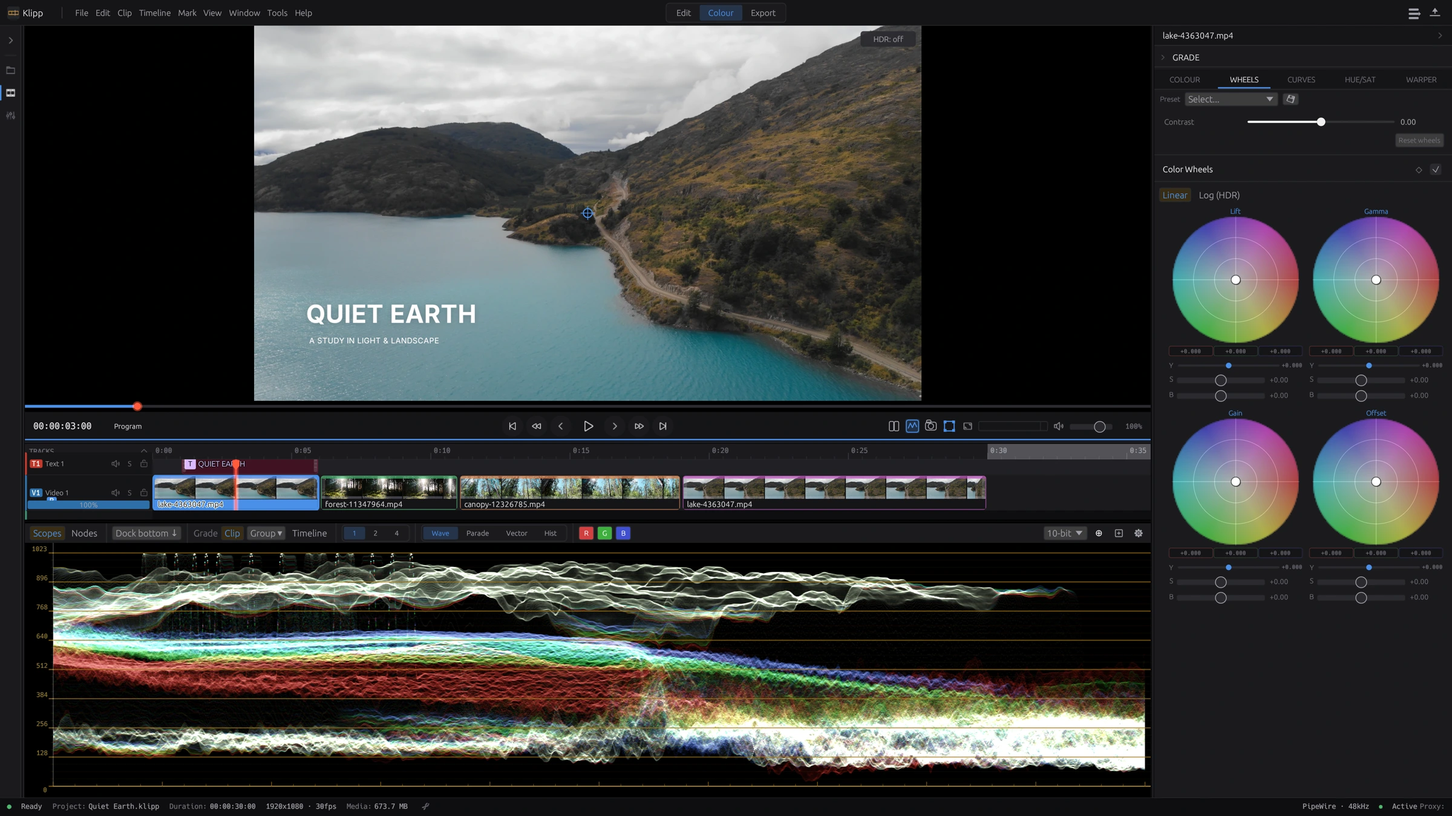
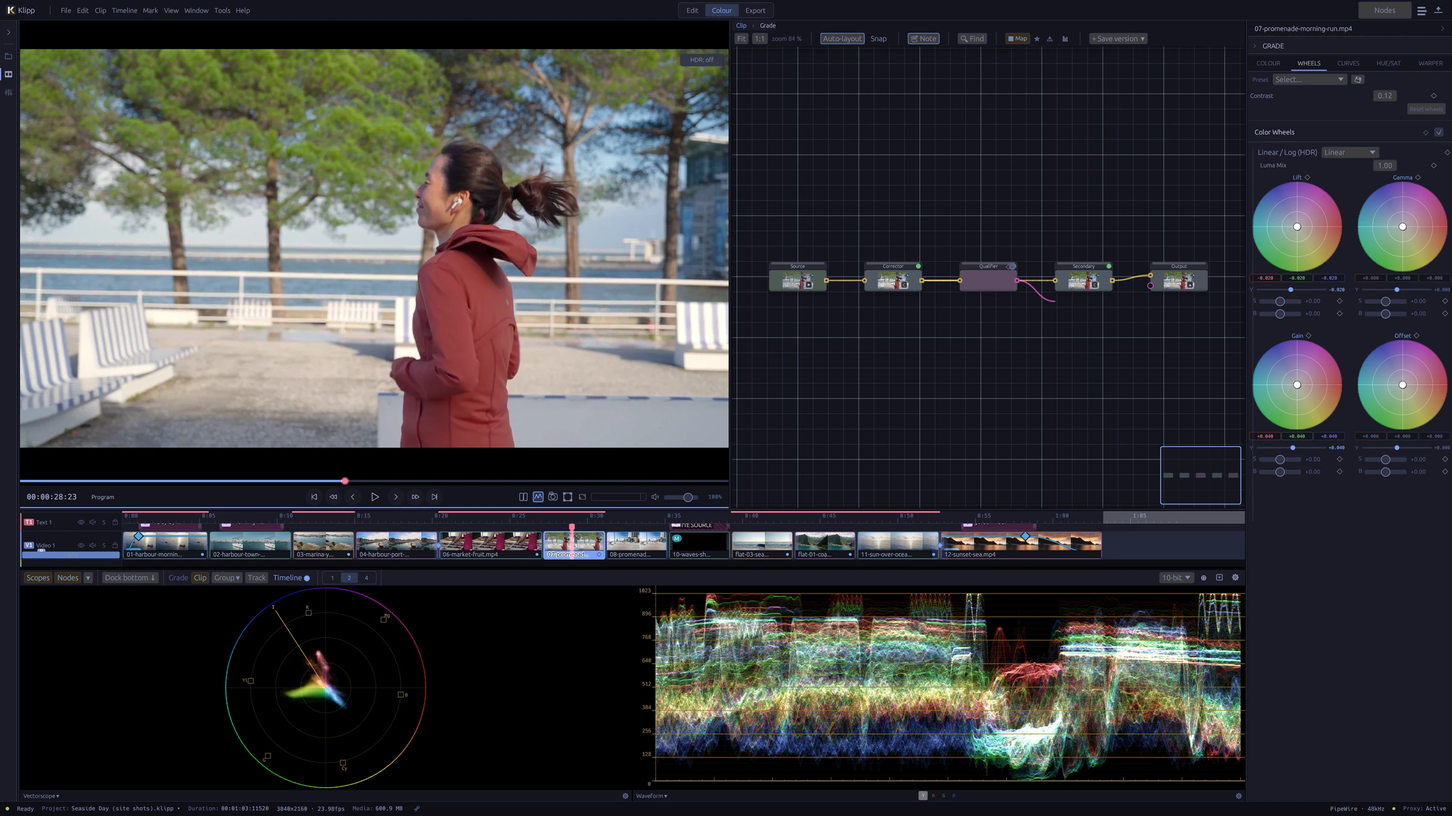
Show the current app and every feature on the homepage
The two homepage screenshots showed an old build with the old logo and a different project from the film. Replace them with captures of the current app on the Seaside Day project, add transcript, titles and sound sections with their own captures, and list every feature by area in collapsed groups. Each listed feature was checked against the code; the colour intro no longer says the pipeline is always ACEScg.

diff --git a/website/index.html b/website/index.html
@@ -13,14 +13,14 @@
 <a class="skip" href="#main">Skip to content</a>
 <header class="header wrap">
   <a class="brand" href="#" aria-label="Klipp home"><img src="assets/klipp-icon.svg" width="36" height="36" alt=""><img src="assets/klipp-wordmark.svg" height="26" alt="Klipp"></a>
-  <nav aria-label="Main navigation"><a href="#workflow">Explore</a><a href="#demo">Demo</a><a href="#start">Get started <span aria-hidden="true">↗</span></a></nav>
+  <nav aria-label="Main navigation"><a href="#workflow">Explore</a><a href="#demo">Demo</a><a href="#features">Features</a><a href="#start">Get started <span aria-hidden="true">↗</span></a></nav>
 </header>
 <main id="main">
   <section class="hero wrap">
     <p class="eyebrow"><span class="status-dot"></span> Built for Linux. In active development.</p>
     <h1>Find your cut.<br><span>Make it yours.</span></h1>
     <div class="hero-bottom"><p>A native video editor with a magnetic timeline, scene-linear colour, and local AI tools. From the first assembly to the final frame.</p><a class="button" href="#start">Start with Klipp <span aria-hidden="true">↗</span></a></div>
-    <figure class="hero-shot"><a href="assets/editing.webp" aria-label="Open the editing workspace screenshot at full size"><img src="assets/editing.webp" width="2400" height="1350" fetchpriority="high" alt="Klipp editing workspace: a mountain lake in the viewer, layered titles, four video shots and a music waveform on the timeline."></a><figcaption><span>QUIET EARTH / Editing workspace</span><span>Actual app capture · Open full size ↗</span></figcaption></figure>
+    <figure class="hero-shot"><a href="assets/edit.webp" aria-label="Open the Edit page screenshot at full size"><img src="assets/edit.webp" width="2400" height="1350" fetchpriority="high" alt="Klipp Edit page: a harbour shot with a lower-third title in the viewer, the media pool, the inspector, and a timeline with title, video, music, ambience, sound effect and voice tracks."></a><figcaption><span>SEASIDE DAY / Edit page</span><span>Actual app capture · Open full size ↗</span></figcaption></figure>
     <div class="specs"><span>Native Linux</span><span>Vulkan accelerated</span><span>Scene-linear colour</span><span>GPL-3.0-only</span></div>
   </section>
   <section id="workflow" class="section wrap">
@@ -29,14 +29,191 @@
   </section>
   <section class="colour section">
     <div class="wrap"><div class="section-heading"><p class="eyebrow">02 / The finish</p><h2>A feel for the image.<br>A measure of the colour.</h2></div>
-    <p class="section-intro">Work in a scene-linear ACEScg pipeline with camera-log decoding, node-based grades, colour wheels, curves, and GPU scopes. Finish for SDR or HDR.</p>
-    <figure class="feature-shot"><a href="assets/colour.webp" aria-label="Open the colour workspace screenshot at full size"><img src="assets/colour.webp" width="2400" height="1350" loading="lazy" alt="Klipp colour workspace with four colour wheels arranged in a two-by-two grid, a waveform scope, and the Quiet Earth timeline."></a><figcaption>Colour workspace / Wheels and waveform · Open full size ↗</figcaption></figure></div>
+    <p class="section-intro">Work in a scene-linear pipeline (ACEScg, BT.2020 or Rec.709 linear) with camera-log decoding, node-based grades, colour wheels, curves, and GPU scopes. Finish for SDR or HDR.</p>
+    <figure class="feature-shot"><a href="assets/colour.webp" aria-label="Open the Colour page screenshot at full size"><img src="assets/colour.webp" width="2400" height="1350" loading="lazy" alt="Klipp Colour page: a graded shot of a runner on a seafront, the clip's node graph with five nodes, four colour wheels, a vectorscope and a waveform."></a><figcaption>Colour page / Node graph, wheels and scopes · Open full size ↗</figcaption></figure></div>
   </section>
-  <section class="section wrap assistant"><div><p class="eyebrow">03 / A helping hand</p><h2>Your edit.<br>More ways to get there.</h2></div><div><p class="lead">Transcribe, analyse, and automate.</p><p>Klipp’s built-in speech, vision, and audio models run locally. Connect an MCP-compatible assistant to inspect footage, propose an edit plan, build a sequence, and check the result.</p><p class="muted">An external assistant may use a local or cloud model, depending on your client. Local inference and external assistants are separate choices.</p><a class="text-link" href="https://github.com/davidkodar/klipp/blob/main/docs/project-reference.md#the-ai-assistant">Read about the workflow ↗</a></div></section>
+  <section class="section wrap assistant"><div><p class="eyebrow">03 / A helping hand</p><h2>Your edit.<br>More ways to get there.</h2></div><div><p class="lead">Transcribe, analyse, and automate.</p><p>Klipp’s built-in speech, vision, and audio models run locally. Connect an MCP-compatible assistant to inspect footage, propose an edit plan, build a sequence, and check the result.</p><p class="muted">An external assistant may use a local or cloud model, depending on your client. Local inference and external assistants are separate choices.</p><a class="text-link" href="https://github.com/davidkodar/klipp/blob/main/docs/project-reference.md#the-ai-assistant">Read about the workflow ↗</a></div><figure class="feature-shot wide"><a href="assets/transcript.webp" aria-label="Open the transcript screenshot at full size"><img src="assets/transcript.webp" width="2400" height="1350" loading="lazy" alt="Klipp Edit page with the Transcript panel open under an interview clip: the spoken words, with the filler words um and uh marked."></a><figcaption>Edit by transcript / Filler words marked · Open full size ↗</figcaption></figure></section>
+  <section class="section wrap">
+    <div class="section-heading"><p class="eyebrow">04 / Titles</p><h2>Words that move.</h2></div>
+    <p class="section-intro">Start from 38 animated title templates, or build your own: complex scripts, variable fonts, 3D text, text on a path, and footage inside the letters with a track matte.</p>
+    <figure class="feature-shot"><a href="assets/titles.webp" aria-label="Open the titles screenshot at full size"><img src="assets/titles.webp" width="2400" height="1350" loading="lazy" alt="Klipp with the title library open beside the viewer, which shows the word SEA with breaking waves inside the letters."></a><figcaption>Title library / Footage inside the letters · Open full size ↗</figcaption></figure>
+  </section>
+  <section class="colour section">
+    <div class="wrap"><div class="section-heading"><p class="eyebrow">05 / Sound</p><h2>Hear it in the edit.</h2></div>
+    <p class="section-intro">Mix on a full mixer with loudness and true-peak meters. Clean up a voice with Voice Isolation on your own machine, duck the music under it, and deliver at your platform’s loudness.</p>
+    <figure class="feature-shot"><a href="assets/sound.webp" aria-label="Open the sound screenshot at full size"><img src="assets/sound.webp" width="2400" height="1350" loading="lazy" alt="Klipp audio layout during playback: the mixer with moving meters, the master loudness at minus 14 LUFS, and Voice Isolation on the selected voice clip."></a><figcaption>Audio mixer / Voice Isolation and loudness · Open full size ↗</figcaption></figure></div>
+  </section>
   <section id="demo" class="section wrap demo"><div class="section-heading"><p class="eyebrow">Made in Klipp</p><h2>Twenty things Klipp does.</h2></div><p class="section-intro">A three-minute tour of the real interface: editing, titles, colour, sound and delivery. Cut, graded, mixed, narrated and exported in Klipp. Play with sound for the narration.</p>
     <video controls playsinline preload="none" poster="assets/klipp-showcase-v3-1080p.webp" width="1920" height="1080" aria-label="Klipp showcase: a three-minute narrated tour of twenty features, with music"><source src="assets/klipp-showcase-v3-1080p.mp4" type="video/mp4">Your browser cannot play this video. <a href="assets/klipp-showcase-v3-1080p.mp4">Download the Klipp showcase</a>.</video>
     <p class="caption">Narrated in English, with music. Shown in Klipp 0.1.0-rc.2. <a href="credits.html">Footage, music and sound credits</a>.</p>
   </section>
+  <section id="features" class="section wrap all-features" aria-labelledby="all-features-title">
+  <div class="section-heading"><p class="eyebrow">In full</p><h2 id="all-features-title">All features.</h2></div><p class="section-intro">What Klipp 0.1.0-rc.2 does, by area. Open a group to see the list.</p>
+
+  <details><summary>Editing <span class="count">18</span></summary><ul>
+    <li>Magnetic multitrack timeline, with ripple on or off</li>
+    <li>Insert, overwrite, replace and fit-to-fill edits from in and out marks</li>
+    <li>Ripple, roll, slip and slide trims</li>
+    <li>Blade, split at the playhead, lift, extract and ripple delete</li>
+    <li>J and L cuts: trim the picture or the sound alone</li>
+    <li>Compound clips and storylines of connected clips</li>
+    <li>Several sequences per project, duplicated in one step</li>
+    <li>A selects timeline for pulling takes</li>
+    <li>Synced multicam by timecode, sound or both, cut with keys 1–9</li>
+    <li>Speed changes, reverse, freeze frames and speed ramps</li>
+    <li>Optical-flow slow motion</li>
+    <li>Keyframes with a curve editor, a dope sheet and a motion path in the viewer</li>
+    <li>Edit by transcript: delete words, filler words or long pauses</li>
+    <li>Markers with notes, colours and kinds, including chapters</li>
+    <li>A history window: click any step to go back</li>
+    <li>Skimming, a source viewer and match frame</li>
+    <li>New version at another aspect: vertical or square, reframed on the subject</li>
+    <li>Scene detection that splits a clip at its shot changes</li>
+  </ul></details>
+
+  <details><summary>Media and organising <span class="count">12</span></summary><ul>
+    <li>Import files or whole folders, or drag them in</li>
+    <li>Bins and rule-based smart bins</li>
+    <li>Ratings, favourites, rejects and keywords</li>
+    <li>Logging fields, list columns, sorting and filters</li>
+    <li>Camera metadata from EXIF and Sony and Canon XML sidecars</li>
+    <li>Metadata sheets in and out as CSV or ALE</li>
+    <li>Proxies, and playback from proxies</li>
+    <li>Relink media from a whole folder; offline files counted on open</li>
+    <li>Find by Picture: describe a shot in words to find it (optional, runs locally)</li>
+    <li>Video synced with separately recorded sound in the media pool</li>
+    <li>Clips split across camera files joined as one take</li>
+    <li>Stills including HEIC, AVIF, JPEG XL, EXR and camera RAW previews</li>
+  </ul></details>
+
+  <details><summary>Colour <span class="count">18</span></summary><ul>
+    <li>Scene-linear grading in ACEScg, BT.2020 or Rec.709 linear</li>
+    <li>15 camera log curves, detected on import</li>
+    <li>A node graph per clip, with a picture on every node</li>
+    <li>Colour wheels, contrast, exposure, saturation and tone controls</li>
+    <li>RGB curves and seven hue, saturation and luminance curves</li>
+    <li>HSL, RGB and 3D qualifiers, luma and difference keys</li>
+    <li>Colour warper</li>
+    <li>Circle, rectangle, gradient and Bezier masks, with tracked windows</li>
+    <li>HDR zones for grading HDR</li>
+    <li>3D LUTs (.cube, .3dl, .csp) and 304 bundled film and cinematic LUTs</li>
+    <li>ACES output transforms and a colour space transform effect</li>
+    <li>Viewer and calibration LUTs that change only the screen</li>
+    <li>GPU waveform, parade, vectorscope and histogram; CIE chromaticity and false colour</li>
+    <li>Colour Check: names what is off in the frame, and the control that fixes it</li>
+    <li>Match shots to a hero shot, or adopt a look from a reference</li>
+    <li>Auto white balance, an eyedropper, and skin balance from detected faces</li>
+    <li>A grade library shared across projects, with stills, wipe and before/after</li>
+    <li>Timeline and track grades, grade versions, and grades pasted onto many clips</li>
+  </ul></details>
+
+  <details><summary>Effects and transitions <span class="count">14</span></summary><ul>
+    <li>73 transitions, each with a live preview</li>
+    <li>Piece transitions: strips, panels, halves and shatter</li>
+    <li>Smooth Cut, for jump cuts between takes</li>
+    <li>60 built-in GPU video effects and six one-click looks</li>
+    <li>Chroma key and luma key</li>
+    <li>Stabilisation, rolling-shutter correction, temporal noise reduction and deflicker</li>
+    <li>Particles, lens flare, light rays, glow, halation, VHS and old film</li>
+    <li>Track mattes, and masks on any effect</li>
+    <li>13 blend modes</li>
+    <li>Remove Background, Isolate Object and Detect Objects (optional, run locally)</li>
+    <li>Subject tracking, and surface tracking with corner pin</li>
+    <li>Motion blur per sequence, with shutter and samples</li>
+    <li>Effect presets and favourites; most effect settings can be keyframed</li>
+    <li>OFX 1.5 and frei0r video plug-ins: subsets of each format; compatibility varies by plugin</li>
+  </ul></details>
+
+  <details><summary>Titles and graphics <span class="count">15</span></summary><ul>
+    <li>38 title templates in six categories, and templates of your own</li>
+    <li>OpenType shaping for complex scripts and right-to-left text</li>
+    <li>Vertical text and ruby</li>
+    <li>Variable fonts and font fallback</li>
+    <li>OpenType features: ligatures, small caps, figure styles, stylistic sets</li>
+    <li>Styled runs, with copy and paste of a style</li>
+    <li>Gradients, outlines, shadows, glow and neon</li>
+    <li>Backings for lower thirds: a box, or shadow and outline</li>
+    <li>Paragraphs, lists, tab stops and fit to a box</li>
+    <li>Text on a path</li>
+    <li>Animators by letter, word or line; staggered entrances and exits</li>
+    <li>Extruded 3D text with bevels and lighting</li>
+    <li>Rolling credits and crawls</li>
+    <li>Type in the viewer with the Text tool; image layers in titles</li>
+    <li>Find and replace across titles, and missing-font replacement</li>
+  </ul></details>
+
+  <details><summary>Captions and transcripts <span class="count">9</span></summary><ul>
+    <li>Speech transcription on your machine (optional; model downloads on request)</li>
+    <li>A transcript panel to set the language and correct words</li>
+    <li>Captions made from the transcript in one step</li>
+    <li>SRT, VTT, ASS/SSA, TTML (IMSC), SCC and EBU-STL, in and out</li>
+    <li>A subtitle editor, with a caption style per track</li>
+    <li>Caption tracks with a language and visibility</li>
+    <li>Caption translation on your machine, 14 language pairs (optional)</li>
+    <li>Burnt-in or soft subtitles on export</li>
+    <li>CEA-608 closed captions embedded in H.264 and H.265</li>
+  </ul></details>
+
+  <details><summary>Sound <span class="count">16</span></summary><ul>
+    <li>Multitrack mixer with loudness (LUFS) and true-peak meters</li>
+    <li>Clip volume, gain, pan and channel mapping</li>
+    <li>Audio crossfades</li>
+    <li>15 built-in audio effects: EQ, dynamics, restoration, reverb, delay, chorus, pitch</li>
+    <li>Noise reduction, de-click, de-ess and hum removal</li>
+    <li>Voice Isolation, on your machine (optional; model downloads on request)</li>
+    <li>Normalise to a loudness or a peak, with a true-peak ceiling</li>
+    <li>Track volume and pan automation, recorded live</li>
+    <li>Volume keyframes and auto duck</li>
+    <li>Sync separate sound by waveform or timecode</li>
+    <li>Fit music to a length, in whole bars</li>
+    <li>Audio roles, proposed by an on-device classifier</li>
+    <li>Sound Over Time: a whole file as frequency against time</li>
+    <li>Narration voices on your machine (optional; voices download on request)</li>
+    <li>Voice-over recording with punch-in, and audio scrubbing</li>
+    <li>LADSPA, LV2 and CLAP audio plug-ins: subsets of each format; compatibility varies by plugin</li>
+  </ul></details>
+
+  <details><summary>Delivery and interchange <span class="count">15</span></summary><ul>
+    <li>Export presets for the web, social, masters and broadcast; save your own</li>
+    <li>H.264, H.265, AV1, VP9, ProRes, DNxHD and animated GIF</li>
+    <li>MP4, MKV, MOV and WebM, in 8-bit or 10-bit</li>
+    <li>HDR export in HLG or PQ, with HDR10+ metadata</li>
+    <li>Output transforms for Rec.709, Rec.2020, PQ, DCI-P3 and sRGB</li>
+    <li>Hardware encoding (NVENC, AMF, VAAPI), with software fallback</li>
+    <li>A render queue, and one file per marker range</li>
+    <li>Loudness targets on export</li>
+    <li>Audio-only export as MP3, WAV or M4A</li>
+    <li>Chapters from markers, written into MP4, MKV and MOV</li>
+    <li>A delivery check of picture and sound, and advice when 8-bit will band</li>
+    <li>Review copies with burnt-in timecode; comments come back as markers</li>
+    <li>Edit exchange: OTIO, FCPXML, CMX3600 EDL, AAF and Kdenlive in and out; FCP7 XML and MLT in</li>
+    <li>The edit comes across (clips, cuts, timing, markers where the format has them), with an import report</li>
+    <li>Autosave, backups and recovery after a crash</li>
+  </ul></details>
+
+  <details><summary>Performance and platform <span class="count">9</span></summary><ul>
+    <li>A native Linux app, for Wayland and X11</li>
+    <li>A Vulkan-capable GPU is required</li>
+    <li>Compositing, grading and scopes on the GPU</li>
+    <li>Hardware video decoding (NVDEC, VAAPI)</li>
+    <li>Follows the Omarchy desktop theme; eight built-in themes, accent colour and UI scale</li>
+    <li>Every AI feature optional, each with its own switch</li>
+    <li>Models download on request and are checked by SHA-256</li>
+    <li>No account; update checks are off until you turn them on</li>
+    <li>A separate HDR reference output window</li>
+  </ul></details>
+
+  <details><summary>Assistant and automation <span class="count">8</span></summary><ul>
+    <li>An MCP server with 129 tools (optional; can be switched off)</li>
+    <li>Your MCP client decides whether its model is local or in the cloud</li>
+    <li>65 edit operations, each one undo step</li>
+    <li>Footage analysis: shots, sound, motion, speech, framing, beats and on-screen text</li>
+    <li>An Edit Plan window to approve, build or discard a proposed edit</li>
+    <li>Draft review with a contact sheet and a quality check</li>
+    <li>Screen recording, narration and sound effects placed on cuts</li>
+    <li>Hide emails, keys and passwords found on screen in a recording</li>
+  </ul></details>
+</section>
   <section id="start" class="section start"><div class="wrap start-grid"><div><p class="eyebrow">Start here</p><h2>A work in progress.<br>Ready to explore.</h2><p>Klipp is pre-release software. Expect rough edges and breaking changes. The latest release candidate, <a href="https://github.com/davidkodar/klipp/releases/tag/v0.1.0-rc.2">0.1.0-rc.2</a>, is out as an unsigned Arch package. There are no stability guarantees yet.</p></div><div class="install"><h3>Build on Arch / Omarchy</h3><p>x86_64 Linux · Vulkan 1.1 GPU required</p><pre><code>git clone https://github.com/davidkodar/klipp.git
 cd klipp/packaging
 makepkg -si

diff --git a/website/credits.html b/website/credits.html
@@ -30,8 +30,8 @@
 </ul>
 <p>Footage from <a href="https://coverr.co/license">Coverr</a> and <a href="https://mixkit.co/license/#videoFree">Mixkit</a>, used under their free licences. Clips were excerpted, graded and combined with titles, music and narration. No creator endorsement is implied.</p>
 <h2>Screenshots</h2>
-<p>The workspace screenshots on the homepage show the Quiet Earth demonstration project: <a href="https://www.pexels.com/video/drone-shot-of-a-beautiful-mountains-by-the-lake-4363047/">Mountain lake aerial</a> by Ton Souza, <a href="https://www.pexels.com/video/sunlight-in-forest-11347964/">Sunlight in Forest</a> by dabatepatvideos and <a href="https://www.pexels.com/video/sunlight-over-forest-12326785/">Sunlight over Forest</a> by Dmitry Marchenkov, under the <a href="https://www.pexels.com/legal-pages/license/">Pexels License</a>, with <a href="https://www.scottbuckley.com.au/library/reverie/">“Reverie” by Scott Buckley</a> (<a href="https://creativecommons.org/licenses/by/4.0/">CC BY 4.0</a>) on its timeline.</p>
+<p>The screenshots on the homepage show the Seaside Day demonstration project in Klipp 0.1.0-rc.2, built from the footage listed above. Also on its timeline and in its media pool: <a href="https://www.jamendo.com/track/785434">“Quand je serai grand (Instrumental Version)” by Löhstana David</a> (<a href="https://creativecommons.org/licenses/by/3.0/">CC BY 3.0</a>), and the sounds <a href="https://freesound.org/people/nicola_ariutti/sounds/813228/">“Stromboli beach” by nicola_ariutti</a> and <a href="https://freesound.org/people/blaukreuz/sounds/520242/">“Ouistreham Beach promenade 5.1” by blaukreuz</a> on Freesound (<a href="https://creativecommons.org/publicdomain/zero/1.0/">CC0</a>). The voice lines are Klipp’s built-in narration.</p>
 <h2>Application and artwork</h2>
 <p>Klipp is licensed under <a href="https://github.com/davidkodar/klipp/blob/main/LICENSE">GPL-3.0-only</a>. The footage, music and sound retain the separate licences linked above. They are not relicensed under the application’s GPL licence.</p>
-<p class="muted">Film: Klipp 0.1.0-rc.2. Screenshots: Klipp 0.1.0, build 90014152. The interface is under active development and may change.</p>
+<p class="muted">Film and screenshots: Klipp 0.1.0-rc.2. The interface is under active development and may change.</p>
 </main></body></html>

diff --git a/website/style.css b/website/style.css
@@ -2,3 +2,10 @@
 @media(max-width:850px){.wrap{width:calc(100% - 40px)}.hero{padding-top:45px}.hero-bottom{align-items:flex-start;flex-direction:column;gap:24px}.hero-bottom p{font-size:18px}.section{padding-block:65px}.editorial-grid{grid-template-columns:1fr;gap:28px}.assistant,.start-grid{grid-template-columns:1fr;gap:25px}.install{padding:25px 0 0;border-left:0;border-top:1px solid #bfc2ba}.specs{display:grid;grid-template-columns:1fr 1fr}.footer{flex-wrap:wrap}.footer p{flex-basis:100%;order:2}.feature-shot figcaption{font-size:10px}}
 @media(max-width:480px){body{font-size:16px}.header{padding-block:18px}.brand{font-size:22px}nav{gap:16px}nav a{font-size:12px}.hero .eyebrow{font-size:9px;letter-spacing:.1em}h1{font-size:58px}.hero-shot figcaption{display:block;font-size:10px}.hero-shot figcaption span{display:block;margin-bottom:4px}.hero-bottom{margin-bottom:30px}.button{width:100%}.specs{font-size:11px}.credits h1{font-size:40px}}
 @media(prefers-reduced-motion:reduce){html{scroll-behavior:auto}}
+
+.assistant .wide{grid-column:1/-1}
+.all-features details summary{font-size:19px}
+.all-features .count{font-size:12px;color:var(--muted);margin-left:8px;letter-spacing:.04em}
+.all-features ul{columns:2;column-gap:48px;margin:16px 0 6px;padding-left:18px;color:var(--muted);font-size:15px}
+.all-features li{break-inside:avoid;margin-bottom:6px}
+@media(max-width:850px){.all-features ul{columns:1}}

diff --git a/website/prepare.py b/website/prepare.py
@@ -31,7 +31,7 @@ def main():
         assets.mkdir(parents=True)
         for name in ("index.html", "style.css", "credits.html"):
             shutil.copyfile(source / name, stage / name)
-        for name in ("editing.webp", "colour.webp", "klipp-icon.svg", "klipp-wordmark.svg", "klipp-showcase-v3-1080p.webp"):
+        for name in ("edit.webp", "colour.webp", "transcript.webp", "titles.webp", "sound.webp", "klipp-icon.svg", "klipp-wordmark.svg", "klipp-showcase-v3-1080p.webp"):
             shutil.copyfile(source / "assets" / name, assets / name)
         video = assets / media["asset"]
         # Address the pinned asset directly; no draft-release listing is needed.

diff --git a/website/CREDITS.md b/website/CREDITS.md
@@ -1,6 +1,6 @@
 # Demo media credits
 
-The homepage film is the Klipp showcase, cut, titled, graded, mixed, narrated and exported in Klipp. The workspace screenshots show the Quiet Earth demo project. The full list with links is on the site's credits page (`credits.html`).
+The homepage film is the Klipp showcase, cut, titled, graded, mixed, narrated and exported in Klipp. The screenshots show the Seaside Day demo project. The full list with links is on the site's credits page (`credits.html`).
 
 ## Showcase film
 
@@ -9,11 +9,11 @@ The homepage film is the Klipp showcase, cut, titled, graded, mixed, narrated an
 - Narration: Klipp's built-in narration with the Kokoro model (Apache-2.0).
 - Footage: 17 clips from [Coverr](https://coverr.co/license) and [Mixkit](https://mixkit.co/license/#videoFree), used under their free licences; each clip is listed on the credits page. No creator endorsement is implied.
 
-## Screenshots (Quiet Earth)
+## Screenshots (Seaside Day)
 
-- Footage under the [Pexels License](https://www.pexels.com/legal-pages/license/): [Mountain lake aerial](https://www.pexels.com/video/drone-shot-of-a-beautiful-mountains-by-the-lake-4363047/) by Ton Souza, [Sunlight in Forest](https://www.pexels.com/video/sunlight-in-forest-11347964/) by dabatepatvideos, [Sunlight over Forest](https://www.pexels.com/video/sunlight-over-forest-12326785/) by Dmitry Marchenkov.
-- Music on the timeline: [“Reverie” by Scott Buckley](https://www.scottbuckley.com.au/library/reverie/), [CC BY 4.0](https://creativecommons.org/licenses/by/4.0/).
+- The homepage screenshots show the Seaside Day demo project, built from the same Coverr and Mixkit footage.
+- Also on its timeline and in its media pool: [“Quand je serai grand (Instrumental Version)” by Löhstana David](https://www.jamendo.com/track/785434), [CC BY 3.0](https://creativecommons.org/licenses/by/3.0/); [“Stromboli beach” by nicola_ariutti](https://freesound.org/people/nicola_ariutti/sounds/813228/) and [“Ouistreham Beach promenade 5.1” by blaukreuz](https://freesound.org/people/blaukreuz/sounds/520242/), [CC0](https://creativecommons.org/publicdomain/zero/1.0/). Voice lines are Klipp's built-in narration.
 
 ## Application
 
-Klipp is [GPL-3.0-only](../LICENSE). Footage, music and sound retain their separate licences and are not relicensed under the application’s GPL licence. Film: Klipp 0.1.0-rc.2. Screenshots: Klipp 0.1.0, build 90014152; the interface may change.
+Klipp is [GPL-3.0-only](../LICENSE). Footage, music and sound retain their separate licences and are not relicensed under the application’s GPL licence. Film and screenshots: Klipp 0.1.0-rc.2; the interface may change.
